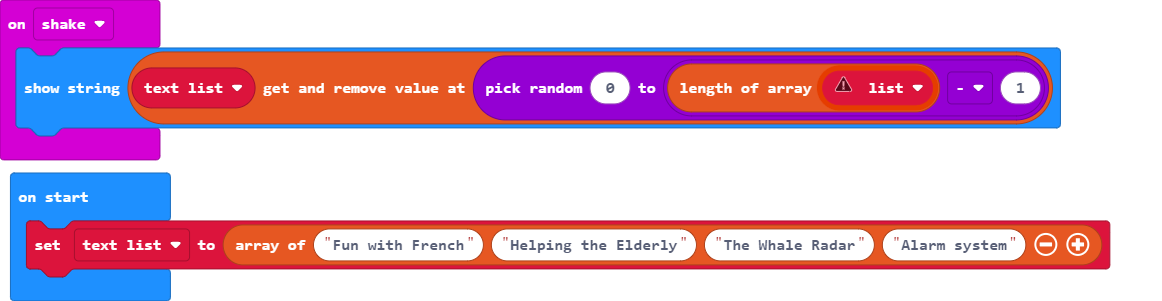
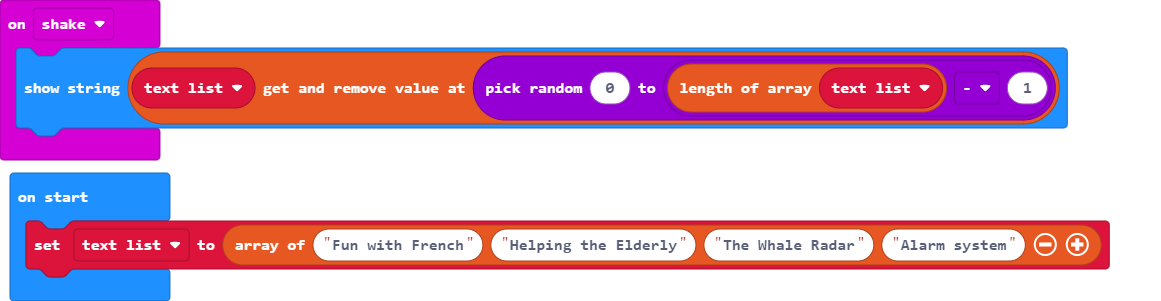
Update the array length

diff --git a/main.ts b/main.ts
@@ -1,6 +1,5 @@
 input.onGesture(Gesture.Shake, function () {
-    let list: number[] = []
-    basic.showString("" + (text_list.removeAt(randint(0, list.length - 1))))
+    basic.showString("" + (text_list.removeAt(randint(0, text_list.length - 1))))
 })
 let text_list: string[] = []
 text_list = ["Fun with French", "Helping the Elderly", "The Whale Radar", "Alarm system"]
